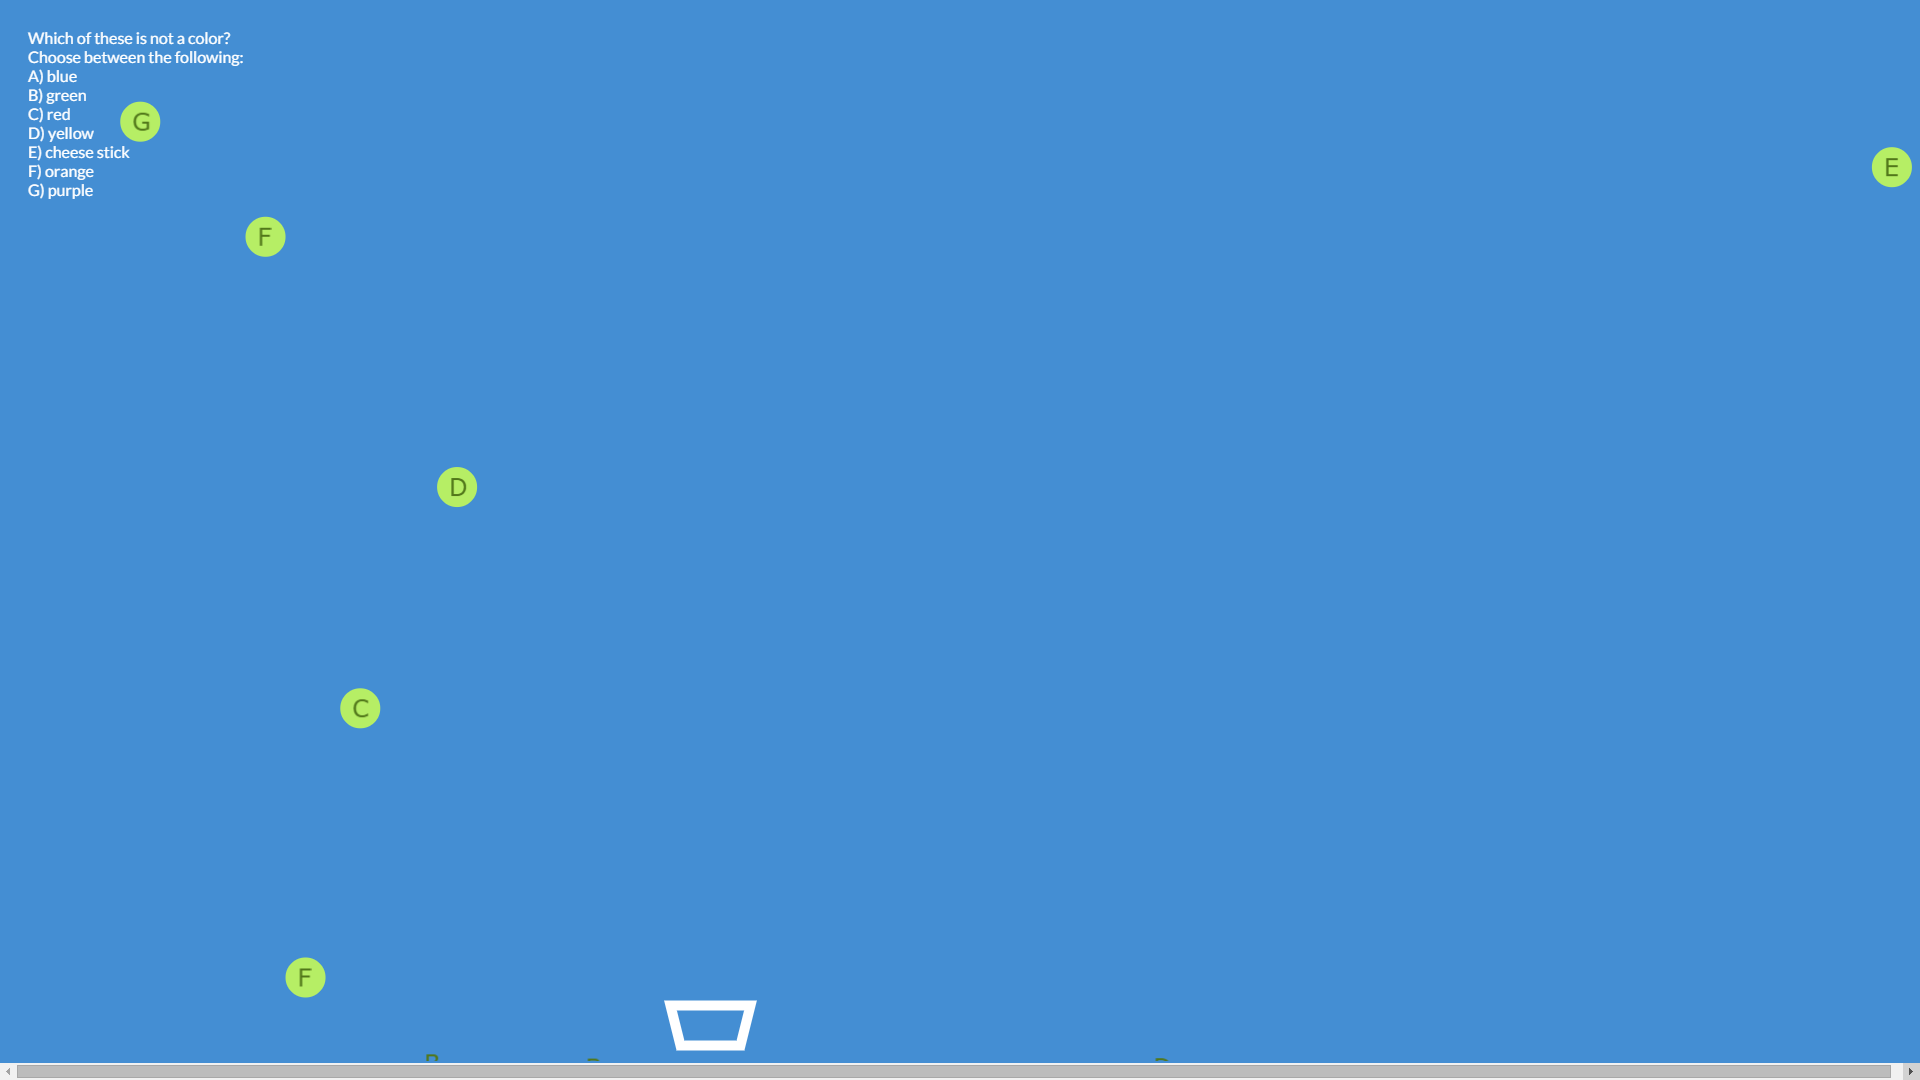
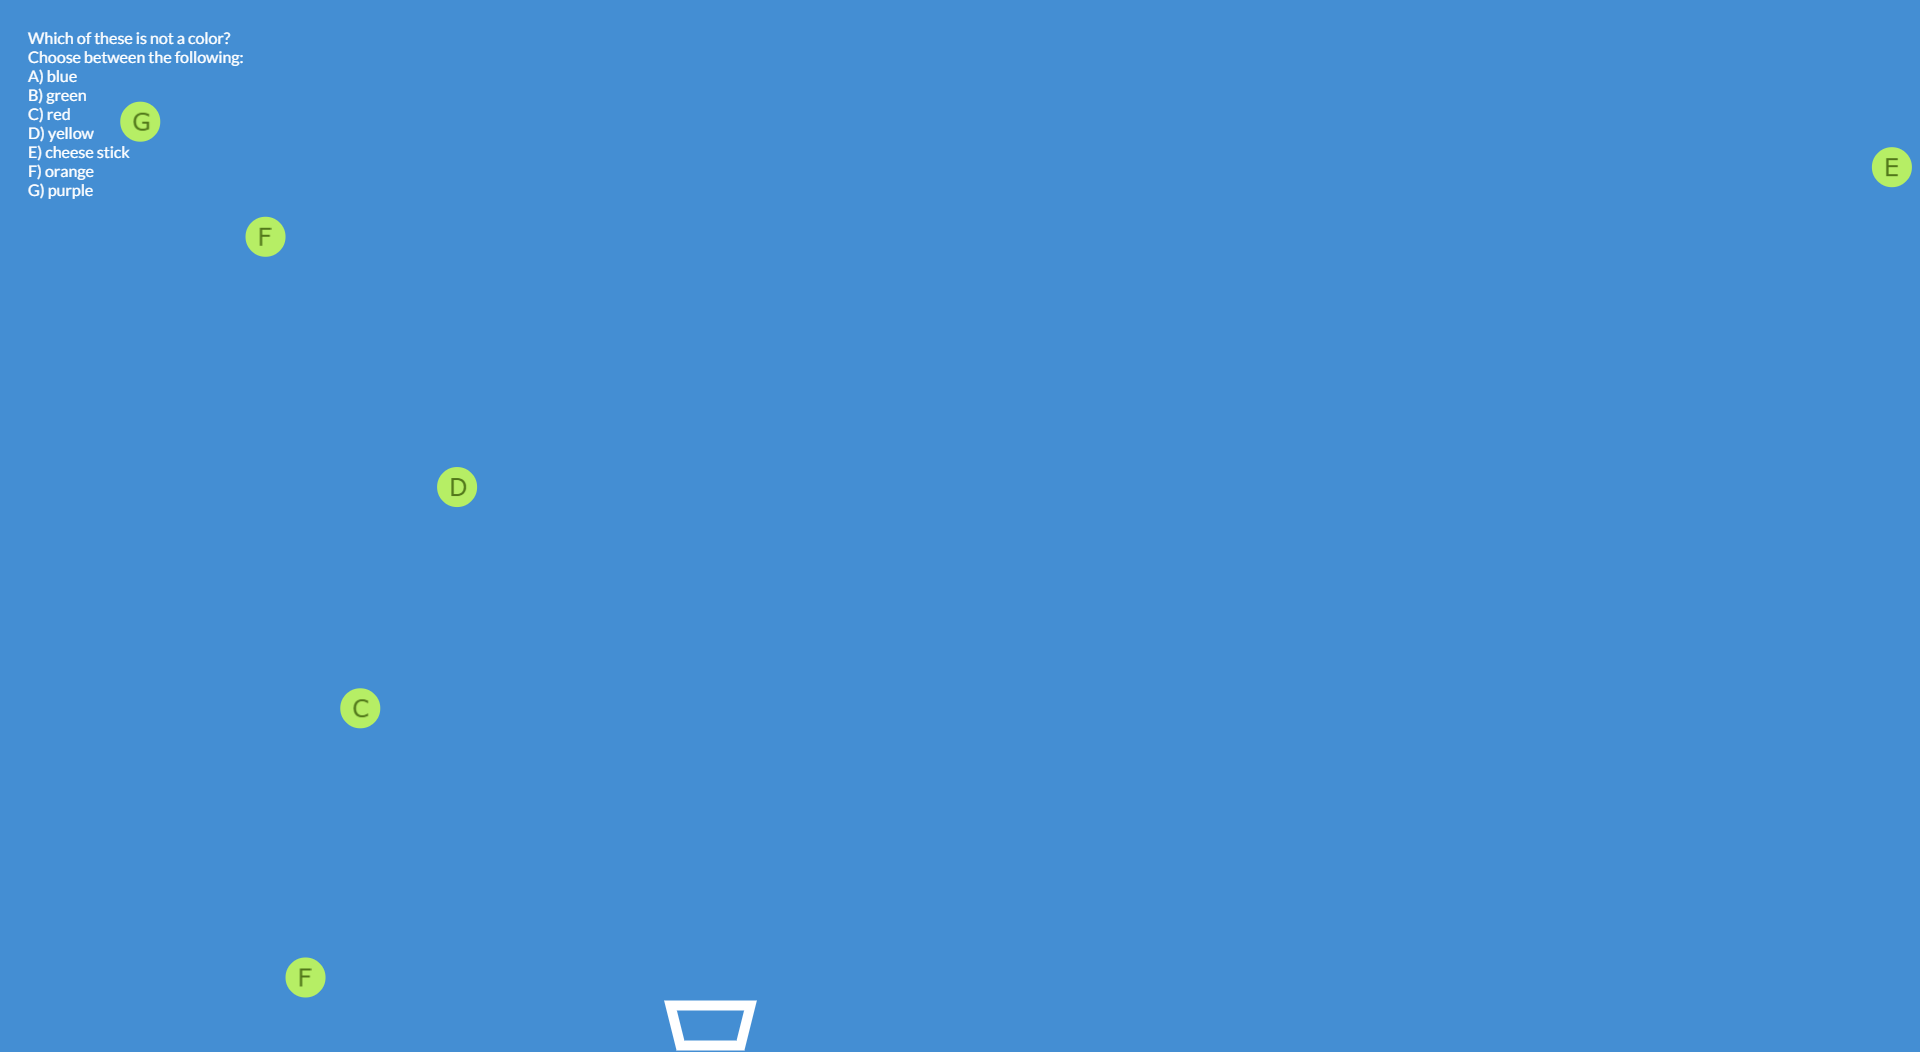
fixed bug in shooters and added image for example

diff --git a/js/bouncer.js b/js/bouncer.js
@@ -24,7 +24,7 @@ var Bouncers = function(parent, width, height, num_choices, state, answerFunc) {
 
 	// physics shit
 	this.world = new p2.World({
-		gravity: [0,state.gravity || 10]
+		gravity: [0,200]
 	});
 
 	this.foodBodies = [];
@@ -157,54 +157,55 @@ Bouncers.prototype = {
 
 	updatePhysics: function () {
 
-		if (this.foodCreated && this.foodBodies.length == 0) {
-			this.recordAnswer(-1);
-			this.foodCreated = false;
-			return;
+		if (this.keyUp) {
+			this.blob.force[1] -= this.speed;
+		}
+		if (this.keyDown) {
+			this.blob.force[1] += this.speed;
+		}
+		if (this.keyRight) {
+			this.blob.force[0] += this.speed;
+		}
+		if (this.keyLeft) {
+			this.blob.force[0] -= this.speed;
 		}
 
-		// make sure out-of-bounds foods are deleted, end when one food reaches the bottom
-		spliceIndices = [];
-		for (i = 0; i < this.foodBodies.length; i++) {
-			if (this.foodBodies[i].position[0] > this._width + this.foodBodies[i].shapes[0].radius) {
-				spliceIndices.push(i);
-			}
-			if (this.foodBodies[i].position[1] > this._height + this.foodBodies[i].shapes[0].radius+20) {
-				this.foodBodies[i].velocity[1] *= 0;
-				this.recordAnswer(this.answerNumbers[i]);
-				this.foodCreated = false;
-				return;
-			}
-			if (this.foodBodies[i].position[0] < -1*this.foodBodies[i].shapes[0].radius) {
-				spliceIndices.push(i);
-			}
-			if (this.foodBodies[i].position[1] < -1*this.foodBodies[i].shapes[0].radius - 200) {
-				spliceIndices.push(i);
+		for (i = 0; i < this.enemyBodies.length; i++) {
+			this.enemyBodies[i].force[0] += this.enemyBodies[i].velocity[1]*2;
+			this.enemyBodies[i].force[1] -= this.enemyBodies[i].velocity[0]*2;
+		}
+
+
+
+		this.bouncerGraphics.x = this.bouncer.position[0];
+		this.bouncerGraphics.y = this.bouncer.position[1];
+		// console.log(this.blobEyeGraphics.x);
+		// this.blobEyeGraphics.x = this.blob.position[0] + 15;//this.blob.velocity[0]/10;
+		// this.blobEyeGraphics.y = this.blob.position[1] + 15;//this.blob.velocity[1]/10;
+
+		for (i=0; i < this.foodBodies.length; i++) {
+			if (this.getDistance(this.foodBodies[i], this.blob) < this.blobRadius*1.25) {
+				this.recordAnswer(i);
 			}
 		}
 
-		for (i = 0; i < spliceIndices.length; i++) {
-			this.world.removeBody(this.foodBodies[spliceIndices[i]]);
-			this.stage.removeChild(this.foodGraphics[spliceIndices[i]]);
-			this.foodBodies.splice(spliceIndices[i], 1);
-			this.foodGraphics.splice(spliceIndices[i], 1);
-			this.answerChoices.splice(spliceIndices[i], 1);
-			this.answerNumbers.splice(spliceIndices[i], 1);
+		// wrap to other side of screen
+		// console.log(this.blob);
+		if (this.blob.position[0] > this._width - this.blob.shapes[0].radius) {
+			this.blob.position[0] = this._width - this.blob.shapes[0].radius - 1;
+		}
+		if (this.blob.position[1] > this._height - this.blob.shapes[0].radius) {
+			this.blob.position[1] = this._height - this.blob.shapes[0].radius - 1;
+		}
+		if (this.blob.position[0] < this.blob.shapes[0].radius) {
+			this.blob.position[0] = this.blob.shapes[0].radius + 1;
+		}
+		if (this.blob.position[1] < this.blob.shapes[0].radius) {
+			this.blob.position[1] = this.blob.shapes[0].radius + 1;
 		}
 
-		if (this.bouncer.position[0] > this._width - this.bouncer.shapes[0].radius) {
-			this.bouncer.velocity[0] *= -1;
-		}
-		if (this.bouncer.position[1] > this._height - this.bouncer.shapes[0].radius) {
-			this.bouncer.velocity[1] *= -1;
-		}
-		if (this.bouncer.position[0] < this.bouncer.shapes[0].radius) {
-			this.bouncer.velocity[0] *= -1;
-		}
-		if (this.bouncer.position[1] < this.bouncer.shapes[0].radius) {
-			this.bouncer.velocity[1] *= -1;
-		}
 
+		// wrap foods
 		for (i = 0; i < this.foodBodies.length; i++) {
 			if (this.foodBodies[i].position[0] > this._width - this.foodBodies[i].shapes[0].radius) {
 				this.foodBodies[i].velocity[0] *= -1;
@@ -220,6 +221,23 @@ Bouncers.prototype = {
 			}
 		}
 
+		// wrap enemies
+		for (i = 0; i < this.enemyBodies.length; i++) {
+			if (this.enemyBodies[i].position[0] > this._width - this.enemyBodies[i].shapes[0].radius) {
+				this.enemyBodies[i].velocity[0] *= -1;
+			}
+			if (this.enemyBodies[i].position[1] > this._height - this.enemyBodies[i].shapes[0].radius) {
+				this.enemyBodies[i].velocity[1] *= -1;
+			}
+			if (this.enemyBodies[i].position[0] < this.enemyBodies[i].shapes[0].radius) {
+				this.enemyBodies[i].velocity[0] *= -1;
+			}
+			if (this.enemyBodies[i].position[1] < this.enemyBodies[i].shapes[0].radius) {
+				this.enemyBodies[i].velocity[1] *= -1;
+			}
+		}
+
+		this.blobGraphics.rotation = this.blob.angle;
 		// update food positions
 		for (var i = 0; i < this.foodBodies.length; i++) {
 			this.foodGraphics[i].x = this.foodBodies[i].position[0];
@@ -227,7 +245,14 @@ Bouncers.prototype = {
 
 			this.answerChoices[i].x = this.foodBodies[i].position[0]-8;
 			this.answerChoices[i].y = this.foodBodies[i].position[1]-14;
-		}		
+		}
+
+		// update enemy positions
+		for (var i = 0; i < this.enemyBodies.length; i++) {
+			this.enemyGraphics[i].x = this.enemyBodies[i].position[0];
+			this.enemyGraphics[i].y = this.enemyBodies[i].position[1]-19;
+		}
+
 
 		this.world.step(1/60);
 	},

diff --git a/js/shooter.js b/js/shooter.js
@@ -109,9 +109,9 @@ Shooters.prototype = {
 	createFoods: function(that) {
 		for (i = 0; i < this.num_choices; i++) {
 			var x = this._width*((i+.5)/this.num_choices);
-			var y = Math.random()*(-200);
+			var y = 10;
 			var vx = 0;
-			var vy = Math.random()*20 - 6;
+			var vy = 6 + Math.random()*10;
 			var va = 0;//(Math.random() - 0.5) * that.speed/100;
 			// create the food physics body
 			var food = new p2.Body({
@@ -147,8 +147,8 @@ Shooters.prototype = {
 	},
 
 	createProjectile: function() {
-		var vx = 1000*Math.cos(this.shooterGraphics.rotation-Math.PI/2);
-		var vy = 1000*Math.sin(this.shooterGraphics.rotation-Math.PI/2);
+		var vx = 700*Math.cos(this.shooterGraphics.rotation-Math.PI/2);
+		var vy = 700*Math.sin(this.shooterGraphics.rotation-Math.PI/2);
 		var projectile = new p2.Body({
 			position: [this.shooterGraphics.x, this.shooterGraphics.y],
 			mass: 10,
@@ -172,6 +172,20 @@ Shooters.prototype = {
 	},
 
 
+	handleKeys: function (key, state) {
+		switch(key) {
+			case 65:
+			case 37:
+			this.keyLeft = state;
+			break;
+			case 68:
+			case 39:
+			this.keyRight = state;
+			break;
+		}
+	},
+
+
 	getDistance: function(a, b) {
 		return Math.sqrt(Math.pow(a.position[0] - b.position[0], 2) + Math.pow(a.position[1] - b.position[1], 2));
 	},
@@ -184,8 +198,25 @@ Shooters.prototype = {
 			return;
 		}
 
-		this.bouncerGraphics.x = this.bouncer.position[0];
-		this.bouncerGraphics.y = this.bouncer.position[1];
+		// make sure out-of-bounds foods are deleted, end when one food reaches the bottom
+		spliceIndices = [];
+		for (i = 0; i < this.foodBodies.length; i++) {
+			if (this.foodBodies[i].position[0] > this._width + this.foodBodies[i].shapes[0].radius) {
+				spliceIndices.push(i);
+			}
+			if (this.foodBodies[i].position[1] > this._height + this.foodBodies[i].shapes[0].radius+20) {
+				this.foodBodies[i].velocity[1] *= 0;
+				this.recordAnswer(this.answerNumbers[i]);
+				this.foodCreated = false;
+				return;
+			}
+			if (this.foodBodies[i].position[0] < -1*this.foodBodies[i].shapes[0].radius) {
+				spliceIndices.push(i);
+			}
+			if (this.foodBodies[i].position[1] < -1*this.foodBodies[i].shapes[0].radius - 30) {
+				spliceIndices.push(i);
+			}
+		}
 
 		for (i = 0; i < spliceIndices.length; i++) {
 			this.world.removeBody(this.foodBodies[spliceIndices[i]]);
@@ -242,7 +273,7 @@ var ShootersMetaGame = function() {
 	 * returns object of radius and numEnemies based on game progress
 	 */
 	this.getMetaGame = function(correct, index, total) {
-		var gravity = 4 + 10*index/total;
+		var gravity = 6 + 14*index/total;
 		return {gravity:gravity};
 	};
 	this.initializeGame = function(parent, width, height, num_choices, state, answerFunc) {

diff --git a/js/gameScreens.js b/js/gameScreens.js
@@ -407,7 +407,7 @@ var Screens = (function() {
 				new Question("Mouse goes:", "squeak", ["meow", "tweet", "woof", "moo", "croak", "toot"]),
 				new Question("Bird goes:", "tweet", ["meow", "woof", "squeak", "moo", "croak", "toot"]),
 				new Question("Which of these is not a color?", "cheese stick", ["red", "orange", "yellow", "green", "blue", "purple"])];
-			currentGame = new Game(-1, questionList, "Assorted Questions", 4);
+			currentGame = new Game(-1, questionList, "Assorted Questions", 3);
 			$("head title").text("Game-A-Thon of Learning - " + currentGame.getTitle());
 			setMainTitleScreen();
 		};
